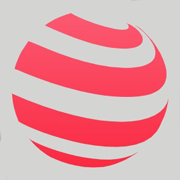
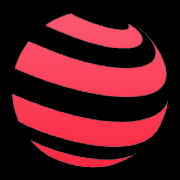
fisrt commit

diff --git a/index.html b/index.html
@@ -30,7 +30,7 @@
     <meta property="twitter:image" content="https://sam959595.github.io/cloverspotqi.github.io/media/index/1200x630.png">
 
     <link rel="icon" href="icon/ico.svg">
-    <link rel="mask-icon" href="icon/ico.svg" color="#d4d4d2">
+    <link rel="mask-icon" href="icon/ico.svg" color="#000">
     <link rel="apple-touch-icon" href="icon/180x180.png">
 
     <link rel="stylesheet" href="css/fonts.css">
